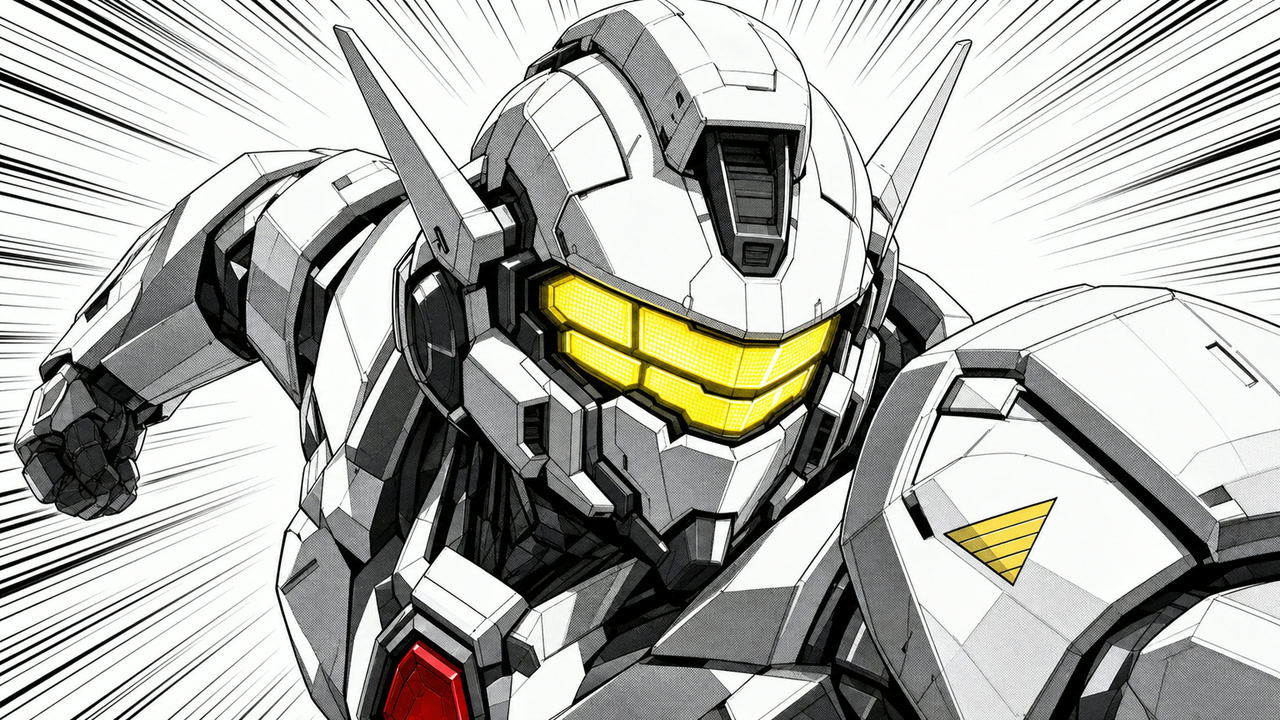
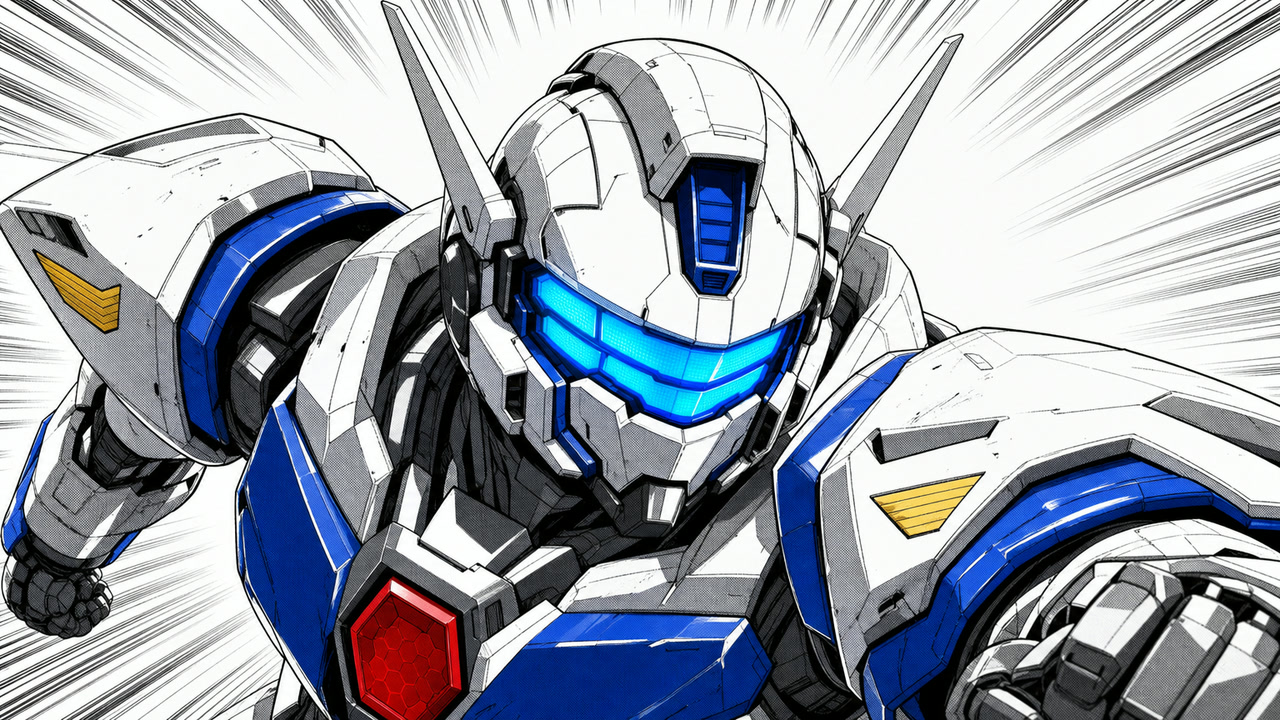
fix(web): buyer hero copy and blue visor hue on landing
Rename buyer accent to Buy inference or raids. Regenerate seller hero
with cyan-blue eye slots and set landing eye-glow tokens to rx-blue.

diff --git a/apps/web/src/styles/features/_landing-surfaces.css b/apps/web/src/styles/features/_landing-surfaces.css
@@ -104,6 +104,8 @@
 }
 
 .app-shell--landing .hero--workflow-seller {
+  --hero-eye-glow: var(--rx-blue);
+  --hero-eye-halo: color-mix(in srgb, var(--rx-blue) 62%, transparent);
   --workflow-fill: var(--rx-blue);
   --workflow-fill-hover: color-mix(in srgb, var(--rx-blue) 88%, #111111);
   --workflow-ink: var(--rx-white);
@@ -111,8 +113,8 @@
 }
 
 .app-shell--landing .hero--workflow-raider {
-  --hero-eye-glow: var(--rx-yellow);
-  --hero-eye-halo: color-mix(in srgb, var(--rx-yellow) 62%, transparent);
+  --hero-eye-glow: var(--rx-blue);
+  --hero-eye-halo: color-mix(in srgb, var(--rx-blue) 62%, transparent);
   --workflow-fill: var(--rx-yellow);
   --workflow-fill-hover: color-mix(in srgb, var(--rx-yellow) 88%, #111111);
   --workflow-ink: var(--text);
@@ -137,8 +139,8 @@
 }
 
 .app-shell--landing .hero--workflow-buyer {
-  --hero-eye-glow: var(--rx-red);
-  --hero-eye-halo: color-mix(in srgb, var(--rx-red) 62%, transparent);
+  --hero-eye-glow: var(--rx-blue);
+  --hero-eye-halo: color-mix(in srgb, var(--rx-blue) 62%, transparent);
   --workflow-fill: var(--rx-red);
   --workflow-fill-hover: color-mix(in srgb, var(--rx-red) 88%, #111111);
   --workflow-ink: var(--rx-white);
@@ -212,11 +214,11 @@
   height: 3%;
   width: var(--hero-eye-width, 10%);
   border-radius: 2px;
-  background: var(--hero-eye-glow, var(--rx-yellow));
+  background: var(--hero-eye-glow, var(--rx-blue));
   box-shadow:
-    0 0 8px var(--hero-eye-glow, var(--rx-yellow)),
-    0 0 16px var(--hero-eye-halo, color-mix(in srgb, var(--rx-yellow) 62%, transparent)),
-    0 0 32px var(--hero-eye-halo, color-mix(in srgb, var(--rx-yellow) 62%, transparent));
+    0 0 8px var(--hero-eye-glow, var(--rx-blue)),
+    0 0 16px var(--hero-eye-halo, color-mix(in srgb, var(--rx-blue) 62%, transparent)),
+    0 0 32px var(--hero-eye-halo, color-mix(in srgb, var(--rx-blue) 62%, transparent));
   mix-blend-mode: screen;
   opacity: 0.96;
   pointer-events: none;

diff --git a/apps/web/src/lib/landing-workflow.ts b/apps/web/src/lib/landing-workflow.ts
@@ -133,7 +133,7 @@ export const HERO_BY_WORKFLOW: Record<WorkflowTabId, LandingHeroConfig> = {
   },
   buyer: {
     before: 'Load up wallet.',
-    accent: 'Inference or raids.',
+    accent: 'Buy inference or raids.',
     after: 'Discounted. Capped budget.',
     primary: {
       href: '/marketplace',

diff --git a/docs/reference/landing-hero-art.md b/docs/reference/landing-hero-art.md
@@ -87,7 +87,7 @@ Slices inherit `background-size: 400% 100%` from `.hero__slice`. Inline `backgro
 | raider       | `apps/web/src/assets/hero-manga-raiders.jpg` |
 | buyer        | `apps/web/src/assets/hero-manga-buyer.jpg`   |
 
-All three panels use **Mercenary Mk-0** (symmetrical temple spikes, hex reactor, triple visor) in B&W manga ink with visor and accent color baked into the JPG. Every tab uses **two separate horizontal visor eye slots** — never one continuous bar. No CSS eye overlays — `HERO_EYE_GLOWS_BY_WORKFLOW` is empty for every tab.
+All three panels use **Mercenary Mk-0** (symmetrical temple spikes, hex reactor, triple visor) in B&W manga ink with **cyan-blue** visor eye slots baked into the JPG. Every tab uses **two separate horizontal visor eye slots** — never one continuous bar. Dark theme (`--hero-eye-glow: var(--rx-blue)`) matches the art. No CSS eye overlays — `HERO_EYE_GLOWS_BY_WORKFLOW` is empty for every tab.
 
 Regenerate from OC references:
 
